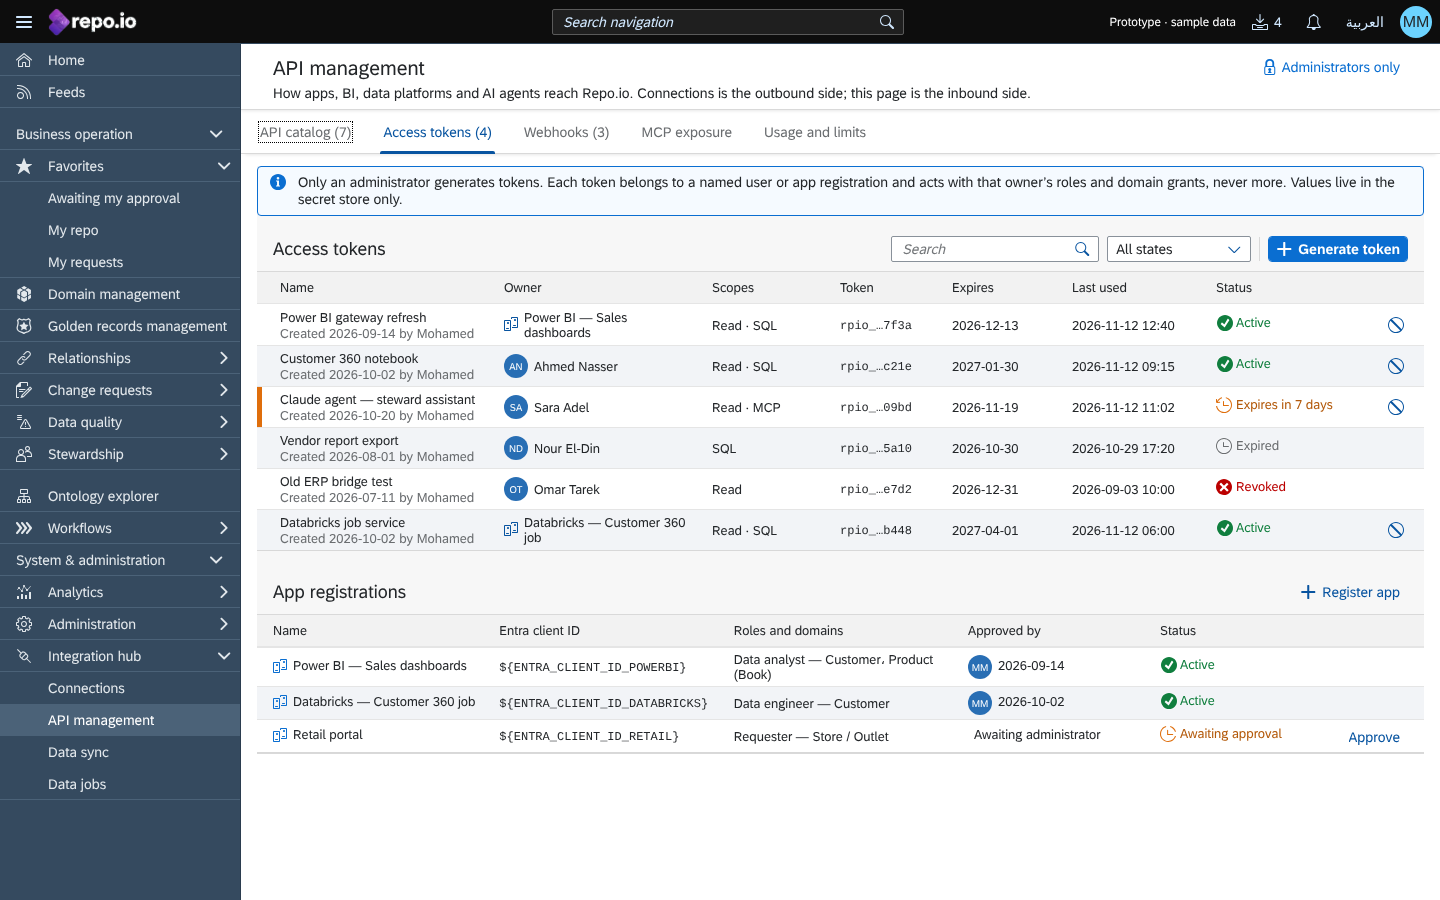
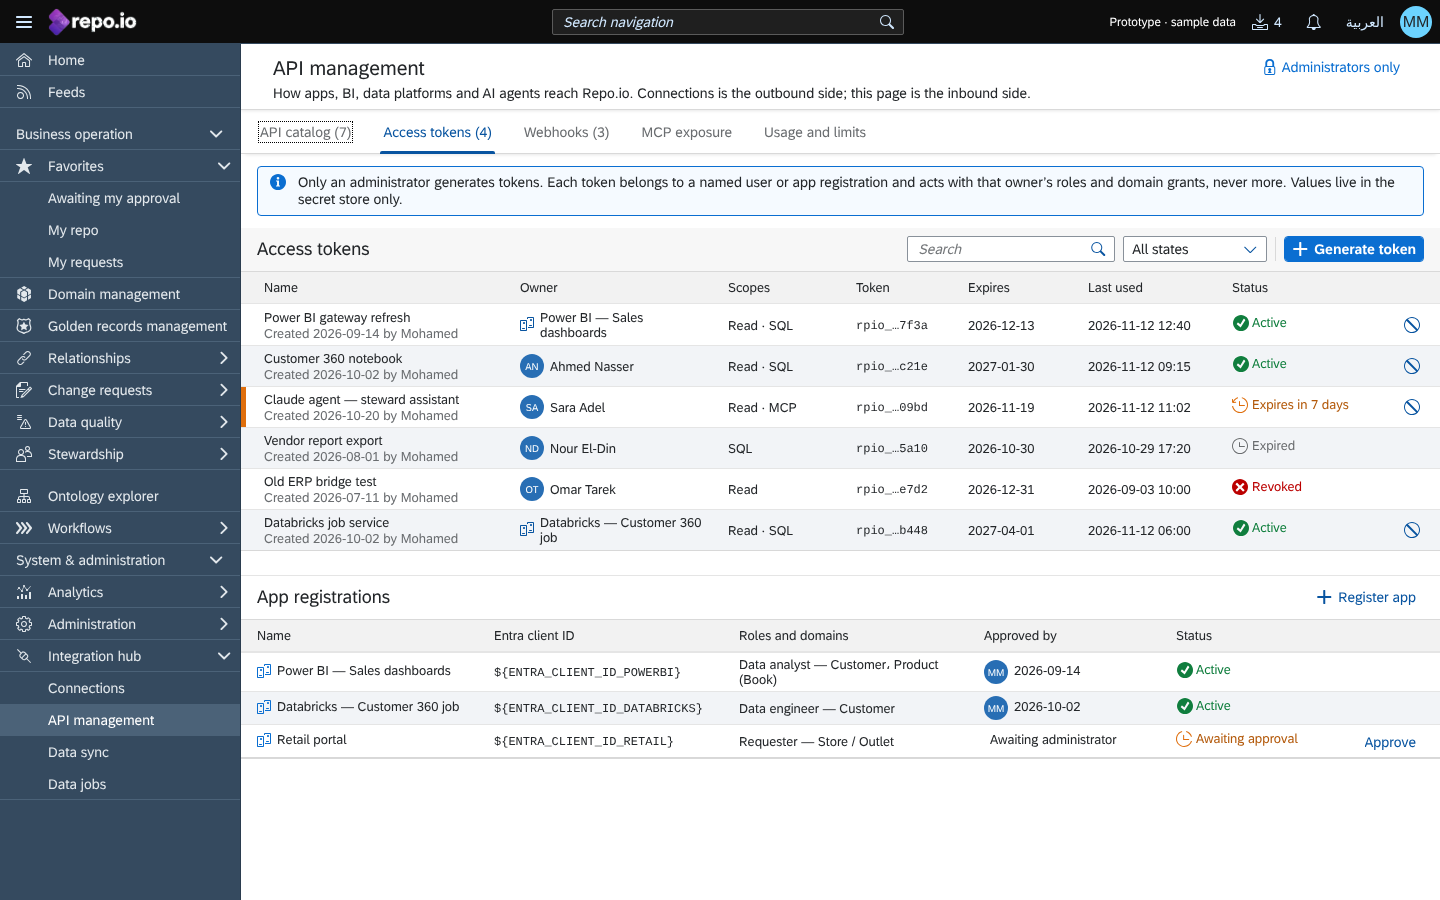
style(repoio-ui): API management tables run edge to edge like the other list screens
Claude-Session: https://claude.ai/code/session_014MwTwj4qVcnTAy3XtzTwBt

diff --git a/repoio-ui/design-reference/openui5-prototype/webapp/css/style.css b/repoio-ui/design-reference/openui5-prototype/webapp/css/style.css
@@ -848,10 +848,13 @@ html[dir="rtl"] .repoioJdArrow { transform: scaleX(-1); }
 .repoioJrMain { flex: 1 1 auto; min-width: 0; }
 
 /* API management (J16) */
+/* Tables run edge to edge on white, like Connections, Data sync and Job runs. */
 .repoioApiTabs > .sapMITH { padding: 0 1rem; }
-.repoioApiTabs .sapMITBContainerContent { padding: 0.75rem 1rem 1rem; }
-.repoioApiStrip { margin-bottom: 0.75rem; }
-.repoioApiSecond { margin-top: 1.25rem; }
+.repoioApiTabs .sapMITBContainerContent { padding: 0; background: #fff; border-bottom: 0; }
+.repoioApiTabs .sapMITBContent { background: #fff; }
+.repoioApiStrip { margin: 0.75rem 1rem; width: auto; }
+.repoioApiSecond { margin-top: 1.5rem; border-top: 1px solid #e5e5e5; }
+.repoioApiPage .repoioApiChartPanel { margin: 0; border-radius: 0; box-shadow: none; background: #f7f7f7; border-bottom: 1px solid #e5e5e5; padding: 1rem; }
 .repoioApiSub.sapMText { font-size: 0.75rem; color: var(--sapContent_LabelColor); }
 .repoioApiOwnerName { margin-inline-start: 0.375rem; }
 .repoioApiAppIcon { color: var(--sapContent_IconColor); font-size: 1rem; }
@@ -859,6 +862,6 @@ html[dir="rtl"] .repoioJdArrow { transform: scaleX(-1); }
 .repoioApiAdminTag { margin-inline-end: 0.5rem; }
 .repoioApiSecretBox { background: var(--sapNeutralBackground, #f5f6f7); border: 1px solid var(--sapList_BorderColor); border-radius: 0.25rem; padding: 0.5rem 0.75rem; word-break: break-all; }
 .repoioApiSecretBox .sapMText { flex: 1 1 auto; min-width: 0; }
-.repoioApiChartPanel { margin-bottom: 0.25rem; }
 .repoioApiQuota.sapMPI { margin: 0; }
 .repoioApiMatrix .sapMCb { padding: 0; height: 2rem; }
+.repoioApiChartPanel + .repoioApiSecond { margin-top: 0; border-top: 0; }
